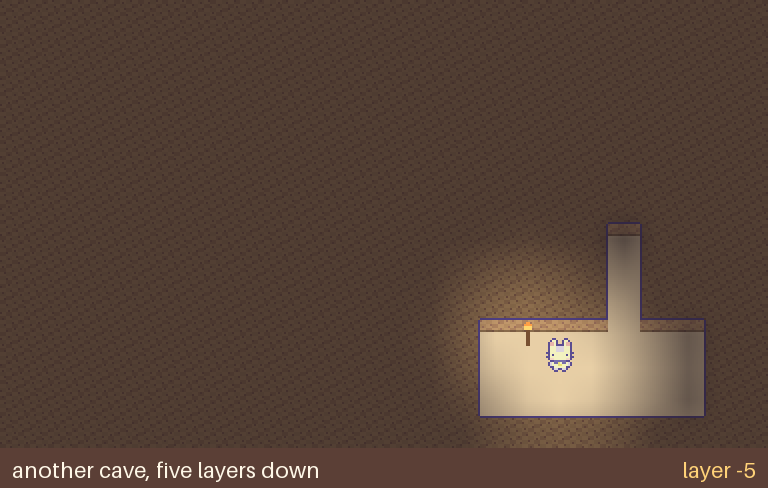
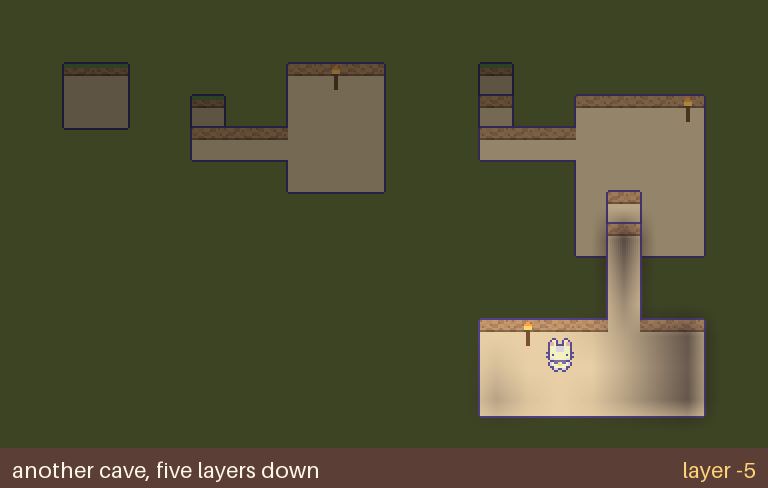
chore(pages): showcase preview: underground, see the layers above
Showcase preview: underground, see the layers above; torches stay put

Claude-Session: https://claude.ai/code/session_011zaXs2MUMAd8vYwC7YncED

Changed region(s): [[0.5312, 0.123, 0.9375, 0.9221], [0.25, 0.123, 0.5, 0.3996], [0.0625, 0.123, 0.1875, 0.2766]]

diff --git a/tools/pages/showcase.html b/tools/pages/showcase.html
@@ -30,7 +30,7 @@
 
   <h2>Coming next: a world in 3D, seen from above</h2>
   <p><b>Design preview, not in the game yet.</b> Every block is solid or air, and you dig ahead or down, layer by layer.
-    A hole is just a missing block: its bottom is the ground under it. Under cover, the view drops to your own layer.</p>
+    A hole is just a missing block: its bottom is the ground under it. Underground you see your own layer set in what is above it, dimmed: the caves over you and the meadow.</p>
   <img class="clip" src="five_layers.gif" alt="A walk down five layers: a hole, a cave, a hole three deep to a cave, a hole two deep in it to another cave">
   <ol>
     <li><b>A hole</b> a layer deep, then <b>a cave</b>: a pit with a step and a tunnel to a room lit by a torch.</li>
